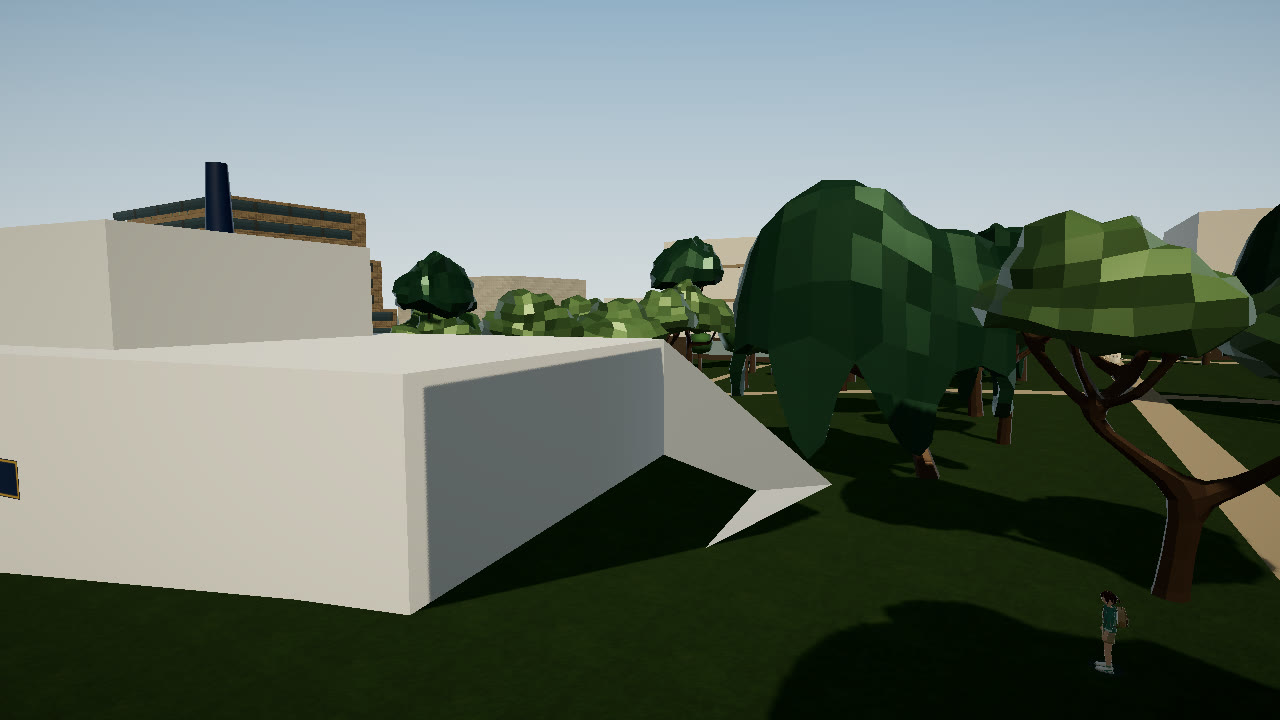
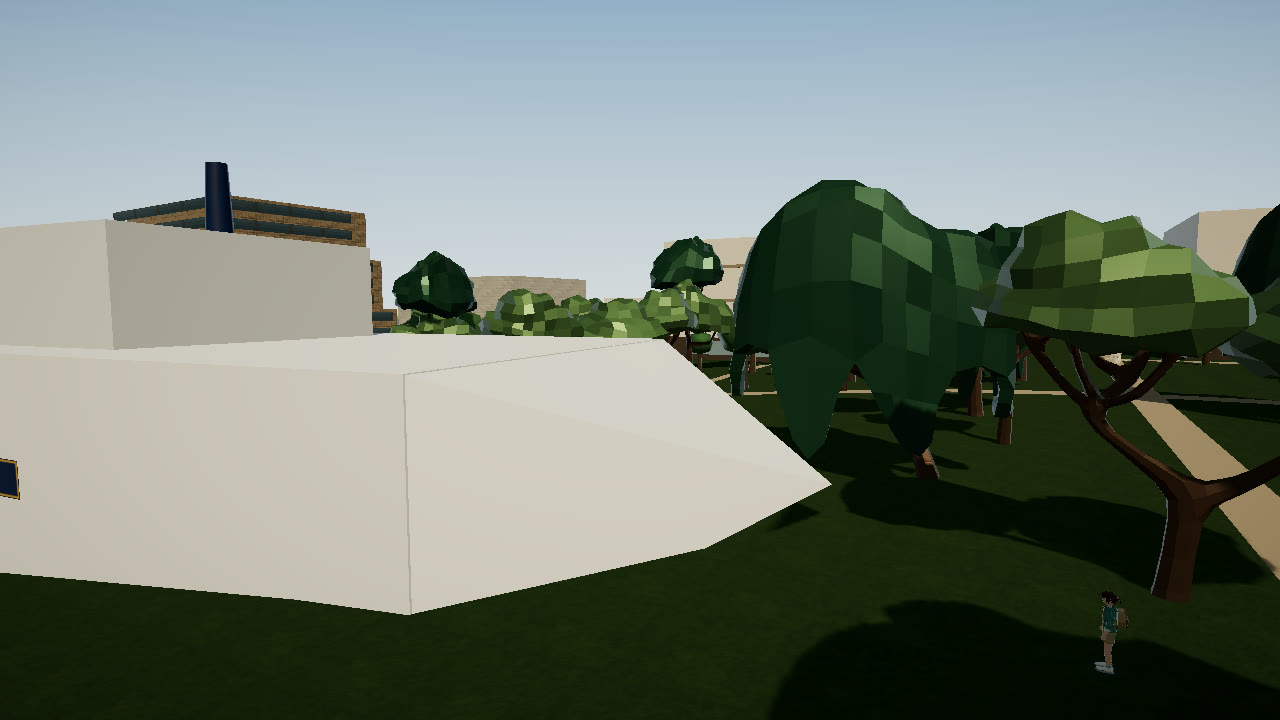
Face the maritime museum bow outward.
The four triangles wound inward, so the outside was culled. They now point down, up, south, and north, and the test checks those normals.

Changed region(s): [[0.3125, 0.4583, 0.6562, 0.8556]]

diff --git a/src/game/world/ContextStructures.tsx b/src/game/world/ContextStructures.tsx
@@ -19,7 +19,7 @@ import {
   memorialProfile,
   officeProfile,
   languageHallProfile,
-  shipBowCorners,
+  shipBowTriangles,
   shipProfile,
   scienceHallProfile,
   studioProfile,
@@ -89,14 +89,7 @@ function LodGlazing({
 }
 
 function shipBowGeometry(size: SecondaryStructure["size"]) {
-  const { base, tip } = shipBowCorners(size);
-  const [a, b, c, d] = base;
-  const positions = new Float32Array([
-    ...a, ...b, ...tip,
-    ...c, ...d, ...tip,
-    ...b, ...c, ...tip,
-    ...d, ...a, ...tip,
-  ]);
+  const positions = new Float32Array(shipBowTriangles(size).flat(2));
   const geometry = new THREE.BufferGeometry();
   geometry.setAttribute("position", new THREE.BufferAttribute(positions, 3));
   geometry.computeVertexNormals();

diff --git a/src/game/world-data/zones/secondary.ts b/src/game/world-data/zones/secondary.ts
@@ -606,6 +606,22 @@ export function shipBowCorners(size: readonly [number, number, number]) {
   };
 }
 
+/**
+ * Bow triangles with outward winding. The first two vertices of each face
+ * run so the right-hand normal leaves the hull: bottom down, top up, south
+ * +Z, north -Z.
+ */
+export function shipBowTriangles(size: readonly [number, number, number]) {
+  const { base, tip } = shipBowCorners(size);
+  const [a, b, c, d] = base;
+  return [
+    [b, a, tip],
+    [d, c, tip],
+    [c, b, tip],
+    [a, d, tip],
+  ] as const;
+}
+
 function campusKind(site: {
   id: string;
   form?: "court" | "gate";

diff --git a/docs/art/HANDOFF.md b/docs/art/HANDOFF.md
@@ -5,7 +5,7 @@
 
 ## 本輪（海事博物館）
 
-- 船首的底邊蓋住船身前臉，尖端在前臉前方。船身長度仍是 estimated。
+- 船首的底邊蓋住船身前臉，尖端在前臉前方。四個面朝外。船身長度仍是 estimated。
 - 沒有新增音效。植栽距離與外國語文大樓留著。
 
 ## 本輪（植栽）
